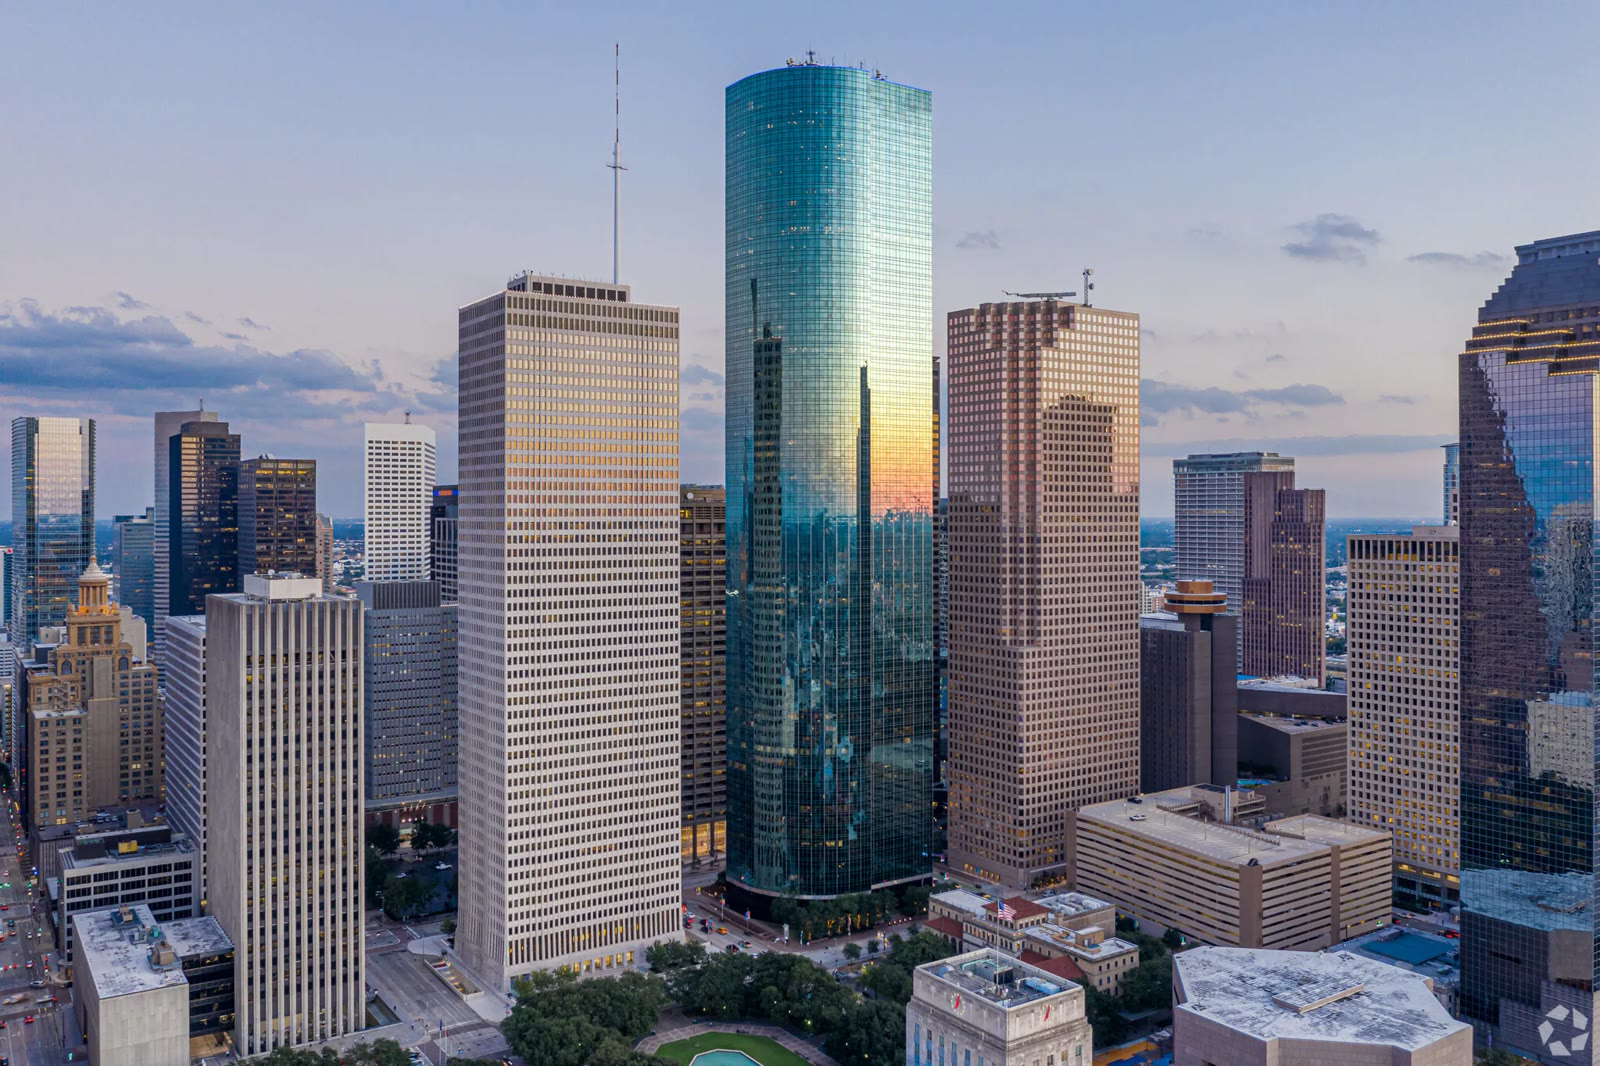
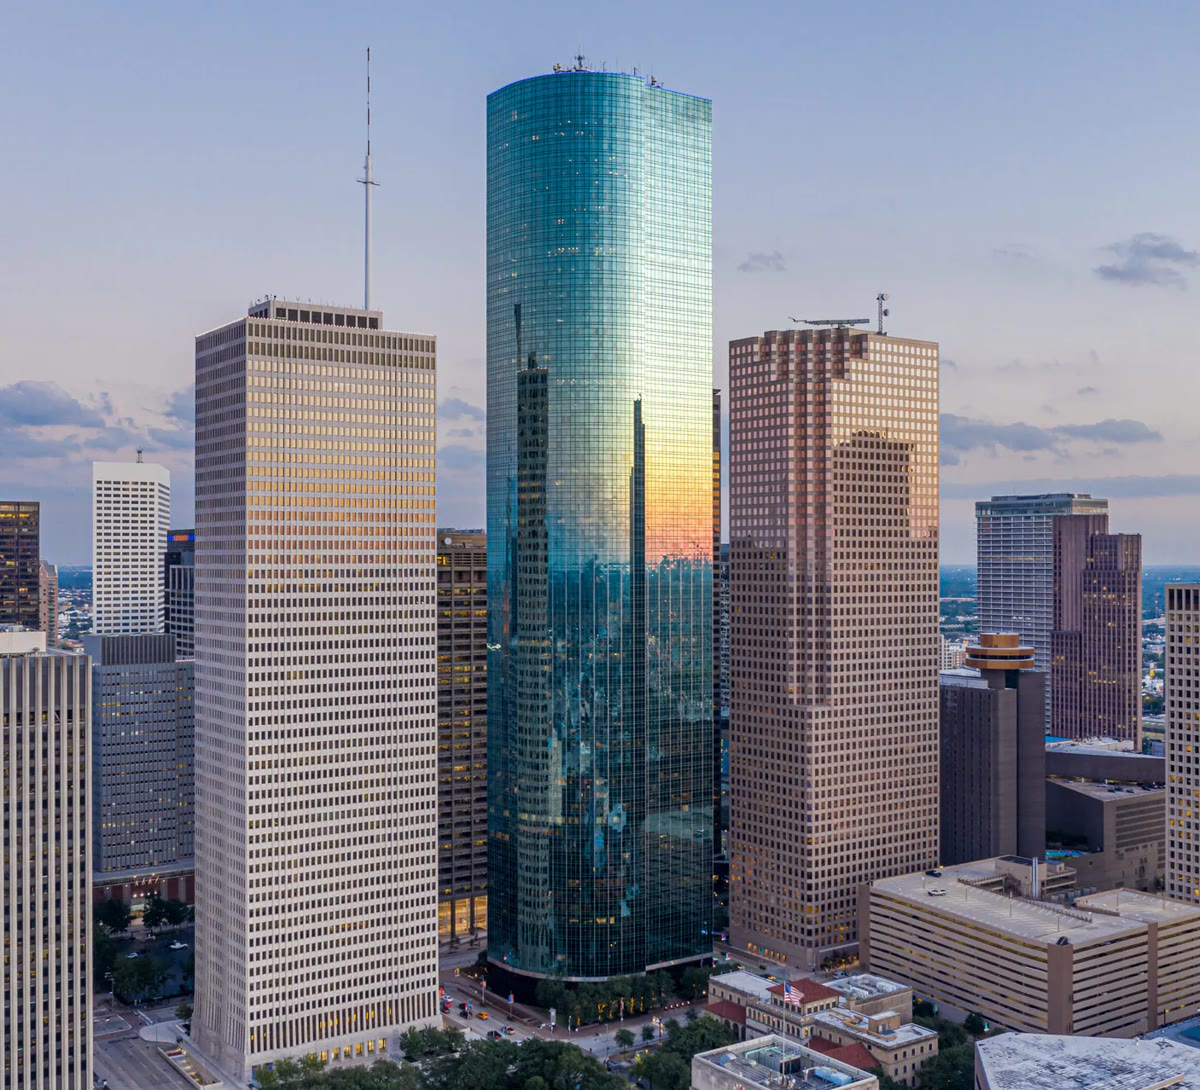
Downtown map: taller matrix photos; Wells Fargo Plaza photo framed on the tower
- Matrix photos 120px -> 240px tall so full buildings show
- 1000 Louisiana photo recropped from the original around the glass tower
- Optional per-building photo focus point (focus: "x% y%")

Claude-Session: https://claude.ai/code/session_01QYv1EJyEXpGjuZh9Hwn9jM

diff --git a/downtown-map/index.html b/downtown-map/index.html
@@ -220,7 +220,7 @@
   .mx th.rh, .mx td.rh { position: sticky; left: 0; z-index: 1; background: var(--navy); color: var(--white); font-weight: 700; border-left: 0; border-bottom-color: rgba(255,255,255,.15); }
   .mx thead th { background: var(--white); padding: 0; }
   .mx thead th.rh { background: var(--navy); padding: 12px 14px; vertical-align: bottom; }
-  .mx .bh .photo { height: 120px; }
+  .mx .bh .photo { height: 240px; }
   .mx .bh .meta { padding: 10px 14px 12px; border-top: 3px solid var(--gold); }
   .mx .bh a.bname { color: var(--navy); font-size: 16px; font-weight: 700; text-decoration: none; }
   .mx .bh a.bname:hover { text-decoration: underline; text-decoration-color: var(--gold); text-decoration-thickness: 2px; }
@@ -434,6 +434,7 @@ const GOOGLE_MAP_TYPE = "hybrid";   // "satellite" = imagery only · "hybrid" = 
    2) BUILDING DATA  (from V2 Downtown West matrix – Holland & Knight)
    Scores: "pos" = favorable (green), "neu" = neutral (yellow), "neg" = unfavorable (red)
    name = property name (CoStar export) · photo = building photo (photos/ folder)
+   focus = optional point of the photo to keep in view, e.g. "50% 40%" (left→right, top→bottom)
    x / y = marker position on the drawn map (% of width / height).
    lat / lng = marker position on the Google map (approximate — press "E" on the map and click a roof to get exact values).
    ============================================================ */
@@ -449,7 +450,7 @@ const BUILDINGS = [
   },
   {
     id: "1000-louisiana", name: "Wells Fargo Plaza", address: "1000 Louisiana St, Houston, TX",
-    photo: "photos/1000-louisiana.jpg", lat: 29.758, lng: -95.3684, rent: 49, x: 44.06, y: 40.5,
+    photo: "photos/1000-louisiana.jpg", focus: "50% 5%", lat: 29.758, lng: -95.3684, rent: 49, x: 44.06, y: 40.5,
     space:     { score: "pos", detail: ["Floors 68–71"] },
     ownership: { score: "neg", detail: ["MetLife and New York State Common Fund"] },
     amenities: { score: "pos", detail: ["Onsite Dining", "Fitness Center", "Tenant Lounge", "Sky Lobby", "Conference Center", "Premium Parking", "Tunnel Access"] },
@@ -517,7 +518,7 @@ const rentFmt = r => `$${r.toFixed(2)}`;
 // Photos: uses b.photo if set, otherwise looks for photos/<id>.jpg next to this page.
 // The placeholder sits underneath, so it shows through until a photo exists.
 const photoSrc = b => b.photo || `photos/${b.id}.jpg`;
-const photoLayer = b => `<div role="img" aria-label="${esc(b.name)}" style="position:absolute;inset:0;background:url('${esc(photoSrc(b))}') center/cover no-repeat"></div>`;
+const photoLayer = b => `<div role="img" aria-label="${esc(b.name)}" style="position:absolute;inset:0;background:url('${esc(photoSrc(b))}') ${esc(b.focus || "center")}/cover no-repeat"></div>`;
 const photo = (b, cls = "") =>
   `<div class="photo ph ${cls}"><svg viewBox="0 0 24 24" fill="none" stroke="#FFB600" stroke-width="1.6"><path d="M4 21V7l6-3v17M10 21V9l10 3v9M2 21h20M13 14h1M17 14h1M13 17h1M17 17h1M6 10h1M6 13h1M6 16h1"/></svg><span>Photo coming soon</span>${photoLayer(b)}</div>`;
 
